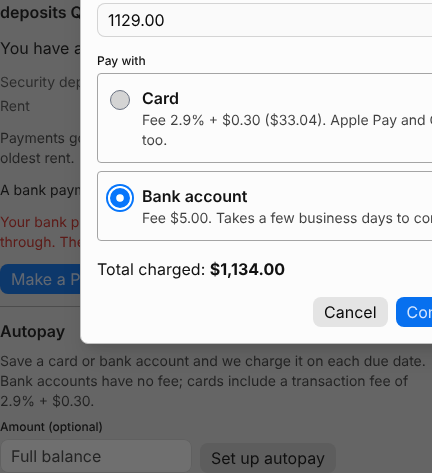
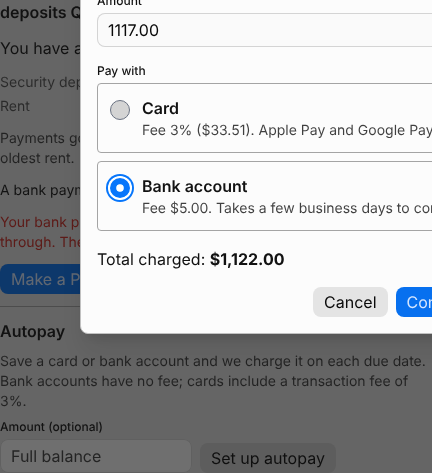
QA evidence (cycle 3, pass, 3% card fee) for add-one-time-bank-payments; not for merging
Claude-Session: https://claude.ai/code/session_01MoQssKHmZMWrc8SjWK1vNb

diff --git a/openspec/changes/add-one-time-bank-payments/qa/qa-report-cycle-3.md b/openspec/changes/add-one-time-bank-payments/qa/qa-report-cycle-3.md
@@ -1,0 +1,50 @@
+# QA report: add-one-time-bank-payments (cycle 3 of 3)
+
+- Deployed commit: `1573bf1` on `develop` (dev site: https://lehman-realty-dev.web.app). It includes the 3% card fee.
+- Run at: 2026-10-18
+- Result: **PASS**, 0 failing scenarios. Three test bugs (stale expected amounts in QA's own specs) were fixed and re-run green.
+
+## The 3% card fee and the $5.00 bank fee
+- The dialog shows "Fee 3% ($X.XX)" and the total for $333.33, $964.52, $600 and $20.
+- Checkout's "Transaction Fee" line:
+
+| Amount by card | Fee |
+|---|---|
+| $333.33 | $10.00 (rounded) |
+| $964.52 | $28.94 |
+| $600.00 | $18.00 |
+| $20.00 | $0.60 |
+| $1.50 | $0.05 (half cent rounds up) |
+| $0.50 | $0.02 |
+| $100.00, rent only | $3.00 |
+
+- The `/payment` autopay copy says "cards include a transaction fee of 3%", and "2.9%" appears nowhere on the page.
+- The bank fee is $5.00 at every amount, in the dialog and on Checkout.
+
+Screenshots: `screenshots/rent-payments-card-fee-*.png`, `screenshots/rent-payments-dialog-fee-333_33.png`, `screenshots/rent-payments-autopay-copy-3-percent.png`, `screenshots/rent-payments-bank-account.png`.
+
+## Every other changed scenario passed
+- **rent-payments:** Valid amount, Card (cards and Apple Pay only), Bank account (US bank only), Missing or unknown method, Split across parts (late-fee line not covered), Rent only, Not the tenant's lease, Invalid amount, Amount above the balance, Fractional cents, Return pages, Over balance, Method choice with fees, Return from card and bank Checkout.
+- **pending-bank-payments:** Checkout completed not settled, Processing note, Returned before the event, Not the tenant's session, Server only, Payable amount reduced, Failed bank payment ($5 Insufficient Funds), Settles ($10 Success account, about 50 seconds).
+- **Regression:** tenant and admin pages load, signed-out redirects work, admin `/payment` shows no tenant data.
+
+## Not covered by automation
+- Failure emails.
+- The late-fee hold, and fees resuming after a failure.
+- Autopay with a pending bank payment, and the 3% on a real autopay card charge.
+- Payment dated when started, and Recorded once.
+- The lost-event check after 7 days.
+- Late events.
+- "Everything on its way" (no spare balance this cycle; passed in cycle 1).
+- Co-tenant view.
+- Microdeposits, real wallets, phones.
+
+## Observations
+- (info) `/payment` shows only the newest failure note per lease, so the earlier $5 failure and the new one appear as one note. This is intended.
+- (low) Stripe test Checkout shows the merchant as "Sandbox". Check that the live business name reads "Lehman Family LLC".
+
+## Payments made (test mode, lease `IopO2Aqo5Glp3aY5CVqX`)
+- $1.00 by card, plus a $0.03 fee.
+- $5.00 by bank (Insufficient Funds account): failed, nothing charged.
+- $10.00 by bank (Success account): settled.
+- Lease balance now $1,157.00. The old $50 cycle 1 payment is still processing and clears on the daily job's 7-day check.
